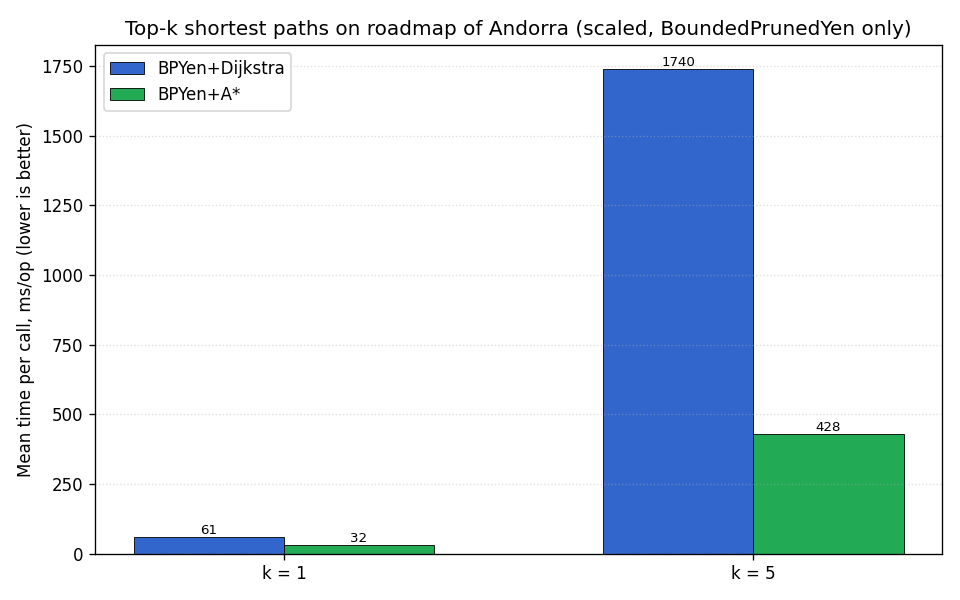
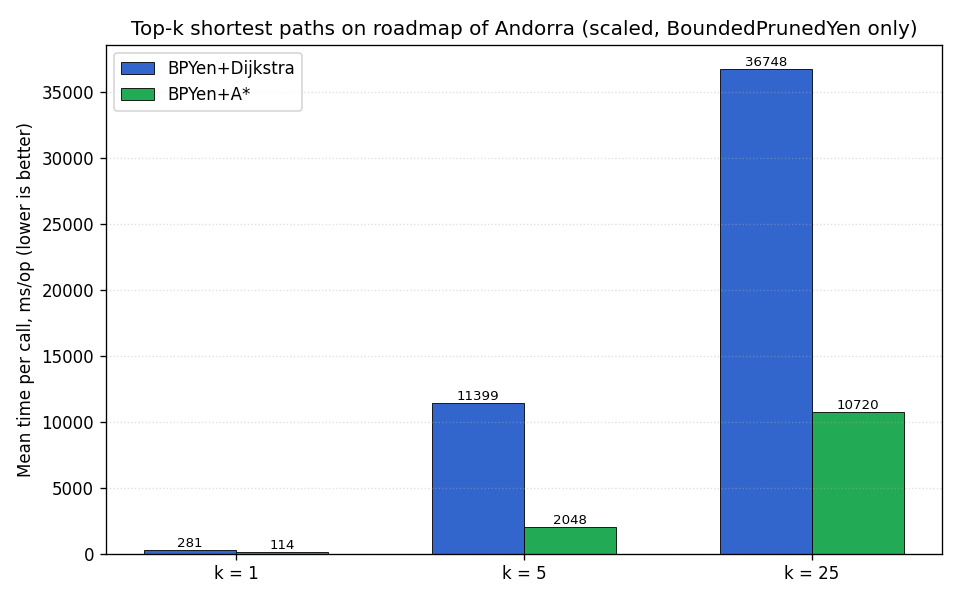
test(perf-bench): widen Andorra bench grid, urban ADP carving, regenerate plots
Bumps the bench sample size and grid coverage so the published numbers
have defensible error bars and exercise the parameter range where
bounded pruning has room to win:

* AndorraBoundedPrunedYenBench:
    - 10 random source-sink pairs per call (was 3); seed unchanged.
    - k @Param = {1, 5, 25} (was {1, 5}).
    - @Warmup(3, 5) and @Measurement(5, 10).
* AndorraBenchmarkRunner.runBenchAverageTime now passes warmupIters=3
  and measureIters=5 to the JMH OptionsBuilder so the bench-class
  annotations are not silently undercut.
* AndorraAllDirectedPathsNonSimpleBench: anchor selection switched
  from a random-attempt search to nearest-vertex of the Andorra la
  Vella centre (42.5063N, 1.5218E), with bfsRadius bumped to 40 and
  the size cap kept at 1500 so the ball is the densest neighbourhood
  the carving reaches.

Numbers (post-#1341 master, AMD x86-64, JDK 21.0.9, JMH 1.37):

  Yen vs BPYen on Andorra (10 queries, seed = 7, 5 measure iters)
  ---------------------------------------------------------------
                              k=1 ms/op    k=5 ms/op    k=25 ms/op
    YenKShortestPath          3174 ±1144  11564 ±3211  45808 ±9406
    BPYen + DijkstraSpur       281 ± 189  11399 ±4268  36748 ±6818
    BPYen + AStarSpur          114 ±  41   2048 ± 590  10720 ±2979

  Speedup vs classical Yen:
    BPYen + DijkstraSpur:  11.3x (k=1)   1.01x (k=5)   1.25x (k=25)
    BPYen + AStarSpur:     27.8x (k=1)   5.65x (k=5)   4.27x (k=25)
[…]

Changed region(s): [[0.0312, 0.06, 0.75, 0.96], [0.7812, 0.09, 0.9688, 0.96], [0.125, 0.03, 0.9688, 0.06]]

diff --git a/jgrapht-core/src/test/java/org/jgrapht/perf/shortestpath/osm/AndorraAllDirectedPathsNonSimpleBench.java b/jgrapht-core/src/test/java/org/jgrapht/perf/shortestpath/osm/AndorraAllDirectedPathsNonSimpleBench.java
@@ -39,7 +39,6 @@ import java.util.ArrayDeque;
 import java.util.Collections;
 import java.util.HashSet;
 import java.util.List;
-import java.util.Random;
 import java.util.Set;
 import java.util.concurrent.TimeUnit;
 
@@ -82,10 +81,22 @@ public class AndorraAllDirectedPathsNonSimpleBench
     @State(Scope.Benchmark)
     public static class AndorraAdpState
     {
-        @Param({ "6" })
+        /**
+         * BFS radius from the urban anchor. OSM road graphs are very sparse
+         * forward-wise (typical out-degree 1.3-1.5), so the ball grows roughly
+         * as {@code 1.4^radius}; the committed value of 40 with the 1500-vertex
+         * size cap reliably yields ~1000 vertices around Andorra la Vella.
+         */
+        @Param({ "40" })
         int bfsRadius;
-        @Param({ "6" })
+
+        /** Bound on walk length (edges). */
+        @Param({ "10" })
         int maxPathLen;
+
+        // Centre of Andorra la Vella (capital, densest part of the country's road network).
+        private static final double ANCHOR_LAT = 42.5063;
+        private static final double ANCHOR_LON = 1.5218;
 
         AndorraGraphLoader.AndorraData data;
         AsSubgraph<Integer, DefaultWeightedEdge> subgraph;
@@ -96,77 +107,86 @@ public class AndorraAllDirectedPathsNonSimpleBench
         public void load()
         {
             data = AndorraGraphLoader.load();
-            int n = data.graph.vertexSet().size();
-            Random rnd = new Random(13L);
 
-            // best-effort search: pick the first anchor whose BFS ball is non-trivial
-            // and yields any reachable target at least 2 hops away. Sparse rural roads
-            // dominate Andorra, so tight size brackets fail too often.
-            int bestSize = -1;
-            Integer bestAnchor = null;
-            Set<Integer> bestBall = null;
-            Integer bestSink = null;
-            int bestHops = -1;
-            for (int attempt = 0; attempt < 400; attempt++) {
-                Integer anchor = rnd.nextInt(n);
-                Set<Integer> ball = bfsBall(anchor, bfsRadius);
-                if (ball.size() < 8) {
-                    continue;
-                }
-                Integer cand = null;
-                int candHops = -1;
-                for (Integer v : ball) {
-                    if (!v.equals(anchor) && data.graph.outDegreeOf(v) > 0) {
-                        int h = bfsHops(anchor, v, bfsRadius);
-                        if (h > candHops) {
-                            candHops = h;
-                            cand = v;
-                        }
-                    }
-                }
-                if (cand == null || candHops < 2) {
-                    continue;
-                }
-                // prefer a "richer" subgraph (more vertices) but cap so non-simple
-                // enumeration stays under a few seconds per query.
-                if (ball.size() <= 1500 && ball.size() > bestSize) {
-                    bestSize = ball.size();
-                    bestAnchor = anchor;
-                    bestBall = ball;
-                    bestSink = cand;
-                    bestHops = candHops;
-                    if (ball.size() >= 120 && candHops >= 3) {
-                        // good enough, stop early
-                        break;
-                    }
-                }
-            }
-            if (bestBall == null) {
+            // Step 1: pick the graph vertex closest to the Andorra la Vella anchor.
+            int anchor = nearestNode(ANCHOR_LAT, ANCHOR_LON);
+
+            // Step 2: BFS ball from the anchor at the requested radius. The walk-enumeration
+            // cost is super-linear in the ball size; we cap at 1500 vertices so a single
+            // @Benchmark call stays under a few seconds even at maxPathLen = 8.
+            Set<Integer> ball = boundedBfsBall(anchor, bfsRadius, /* sizeCap= */ 1500);
+            if (ball.size() < 50) {
                 throw new IllegalStateException(
-                    "could not carve any Andorra subgraph after 400 anchor attempts");
+                    "urban Andorra ball too small (" + ball.size() + " vertices); the OSM "
+                        + "extract may be missing the capital, or the anchor coordinates need "
+                        + "to be updated");
             }
-            subgraph = new AsSubgraph<>(data.graph, bestBall);
-            source = bestAnchor;
-            sink = bestSink;
-            // log via a sentinel field; JMH suppresses System.out during measurement
-            // but the trial setup phase prints to surefire output.
+
+            // Step 3: choose a sink at maximum BFS-hop distance from the anchor inside the ball.
+            // That deepest reachable vertex tends to expand the walk count the most.
+            int chosenSink = -1;
+            int bestHops = -1;
+            for (Integer v : ball) {
+                if (v.intValue() == anchor || data.graph.outDegreeOf(v) == 0) {
+                    continue;
+                }
+                int h = bfsHops(anchor, v, bfsRadius);
+                if (h > bestHops) {
+                    bestHops = h;
+                    chosenSink = v;
+                }
+            }
+            if (chosenSink < 0) {
+                throw new IllegalStateException(
+                    "urban Andorra ball has no reachable non-anchor vertex with out-degree > 0");
+            }
+
+            subgraph = new AsSubgraph<>(data.graph, ball);
+            source = anchor;
+            sink = chosenSink;
+            // Setup runs once per trial; JMH propagates the stdout to the surefire log.
             System.out.printf(
-                "[AndorraAdpState] ball=%d, src=%d sink=%d hops=%d radius=%d maxPathLen=%d%n",
-                bestBall.size(), bestAnchor, bestSink, bestHops, bfsRadius, maxPathLen);
+                "[AndorraAdpState] anchor=%d (%.4f, %.4f) ball=%d sink=%d hops=%d radius=%d "
+                    + "maxPathLen=%d%n",
+                anchor, data.nodeLatLon[anchor][0], data.nodeLatLon[anchor][1], ball.size(),
+                chosenSink, bestHops, bfsRadius, maxPathLen);
         }
 
-        private Set<Integer> bfsBall(Integer start, int radius)
+        private int nearestNode(double targetLat, double targetLon)
+        {
+            int best = -1;
+            double bestDist = Double.MAX_VALUE;
+            double[][] coords = data.nodeLatLon;
+            for (int v = 0; v < coords.length; v++) {
+                double[] c = coords[v];
+                double dLat = c[0] - targetLat;
+                double dLon = c[1] - targetLon;
+                // Squared lat/lon distance is enough for nearest-vertex selection inside a
+                // single small country; Haversine would just slow the linear scan down.
+                double d = dLat * dLat + dLon * dLon;
+                if (d < bestDist) {
+                    bestDist = d;
+                    best = v;
+                }
+            }
+            return best;
+        }
+
+        private Set<Integer> boundedBfsBall(Integer start, int radius, int sizeCap)
         {
             Set<Integer> visited = new HashSet<>();
             ArrayDeque<int[]> q = new ArrayDeque<>();
             q.add(new int[] { start, 0 });
             visited.add(start);
-            while (!q.isEmpty()) {
+            while (!q.isEmpty() && visited.size() < sizeCap) {
                 int[] head = q.poll();
                 if (head[1] == radius) {
                     continue;
                 }
                 for (Integer nbr : Graphs.successorListOf(data.graph, head[0])) {
+                    if (visited.size() >= sizeCap) {
+                        break;
+                    }
                     if (visited.add(nbr)) {
                         q.add(new int[] { nbr, head[1] + 1 });
                     }

diff --git a/jgrapht-core/src/test/java/org/jgrapht/perf/shortestpath/osm/AndorraBoundedPrunedYenBench.java b/jgrapht-core/src/test/java/org/jgrapht/perf/shortestpath/osm/AndorraBoundedPrunedYenBench.java
@@ -66,8 +66,8 @@ import java.util.concurrent.TimeUnit;
     "--add-exports=org.jgrapht.core/org.jgrapht.perf.shortestpath.osm=ALL-UNNAMED",
     "--add-exports=org.jgrapht.core/org.jgrapht.perf.shortestpath.osm.jmh_generated=ALL-UNNAMED"
 })
-@Warmup(iterations = 2, time = 5)
-@Measurement(iterations = 3, time = 10)
+@Warmup(iterations = 3, time = 5)
+@Measurement(iterations = 5, time = 10)
 @OutputTimeUnit(TimeUnit.MILLISECONDS)
 public class AndorraBoundedPrunedYenBench
 {
@@ -106,10 +106,10 @@ public class AndorraBoundedPrunedYenBench
     @State(Scope.Benchmark)
     public static class AndorraYenState
     {
-        // k=1 is just the underlying shortest-path engine; k=5 exercises the
-        // bounded-prune candidate heap. Higher k values keep classical Yen running
-        // for >30 s per query on Andorra, so we cap here.
-        @Param({ "1", "5" })
+        // k=1 is just the underlying shortest-path engine (Dijkstra-or-A*);
+        // k=5 exercises the candidate heap; k=25 is where bounded pruning has
+        // amortised room to win.
+        @Param({ "1", "5", "25" })
         int k;
 
         AndorraGraphLoader.AndorraData data;
@@ -121,12 +121,13 @@ public class AndorraBoundedPrunedYenBench
             data = AndorraGraphLoader.load();
             int n = data.graph.vertexSet().size();
             Random rnd = new Random(7L);
-            // 3 queries: classical Yen at k=5 averages ~5–10 s per query on
-            // Andorra, so 3 queries per @Benchmark invocation keeps each JMH
-            // iteration around 30 s (and lets BoundedPrunedYen still show its
-            // amortised advantage).
-            queries = new ArrayList<>(3);
-            while (queries.size() < 3) {
+            // 10 queries per @Benchmark invocation: keeps error bars tight at
+            // k = 1 and k = 5 while letting JMH overrun the 10 s iteration
+            // window naturally at k = 25 (classical Yen averages ~5–10 s per
+            // query at k = 25 on Andorra). With 5 measurement iterations the
+            // total wall budget stays under ~30 min across all 9 cells.
+            queries = new ArrayList<>(10);
+            while (queries.size() < 10) {
                 int src = rnd.nextInt(n);
                 int dst = rnd.nextInt(n);
                 if (src != dst) {

diff --git a/scripts/render_andorra_plots.py b/scripts/render_andorra_plots.py
@@ -44,15 +44,18 @@ class YenRow:
 
 # Default numbers measured on the maintenance branch (post-#1341 master) on
 # AMD x86-64 / 32 GB DDR4 / Windows 11 Pro / Eclipse Temurin JDK 21.0.9 /
-# JMH 1.37 with 3 random source-sink pairs (seed = 7), 2 warm-up iterations of
-# 5 s and 3 measurement iterations of 10 s.
+# JMH 1.37 with 10 random source-sink pairs (seed = 7), 3 warm-up iterations
+# of 5 s and 5 measurement iterations of 10 s.
 DEFAULT_YEN: list[YenRow] = [
-    YenRow("Yen", 1, 548.129, 543.865),
-    YenRow("Yen", 5, 2538.576, 3050.256),
-    YenRow("BPYen+Dijkstra", 1, 67.233, 51.000),
-    YenRow("BPYen+Dijkstra", 5, 1578.425, 283.738),
-    YenRow("BPYen+A*", 1, 26.897, 8.300),
-    YenRow("BPYen+A*", 5, 411.600, 436.627),
+    YenRow("Yen", 1, 3174.021, 1143.997),
+    YenRow("Yen", 5, 11563.934, 3211.048),
+    YenRow("Yen", 25, 45808.216, 9405.612),
+    YenRow("BPYen+Dijkstra", 1, 281.212, 189.018),
+    YenRow("BPYen+Dijkstra", 5, 11398.873, 4267.508),
+    YenRow("BPYen+Dijkstra", 25, 36748.482, 6818.482),
+    YenRow("BPYen+A*", 1, 114.127, 41.410),
+    YenRow("BPYen+A*", 5, 2048.124, 590.179),
+    YenRow("BPYen+A*", 25, 10719.501, 2978.727),
 ]
 
 

diff --git a/jgrapht-core/src/test/java/org/jgrapht/perf/shortestpath/osm/AndorraBenchmarkRunner.java b/jgrapht-core/src/test/java/org/jgrapht/perf/shortestpath/osm/AndorraBenchmarkRunner.java
@@ -71,7 +71,7 @@ class AndorraBenchmarkRunner
     private static void runBenchAverageTime(String benchSimpleName, String outBase)
         throws RunnerException, java.io.IOException
     {
-        runJmh(benchSimpleName, outBase, /*warmupIters=*/ 2, /*measureIters=*/ 3);
+        runJmh(benchSimpleName, outBase, /*warmupIters=*/ 3, /*measureIters=*/ 5);
     }
 
     private static void runBenchSingleShot(String benchSimpleName, String outBase)
